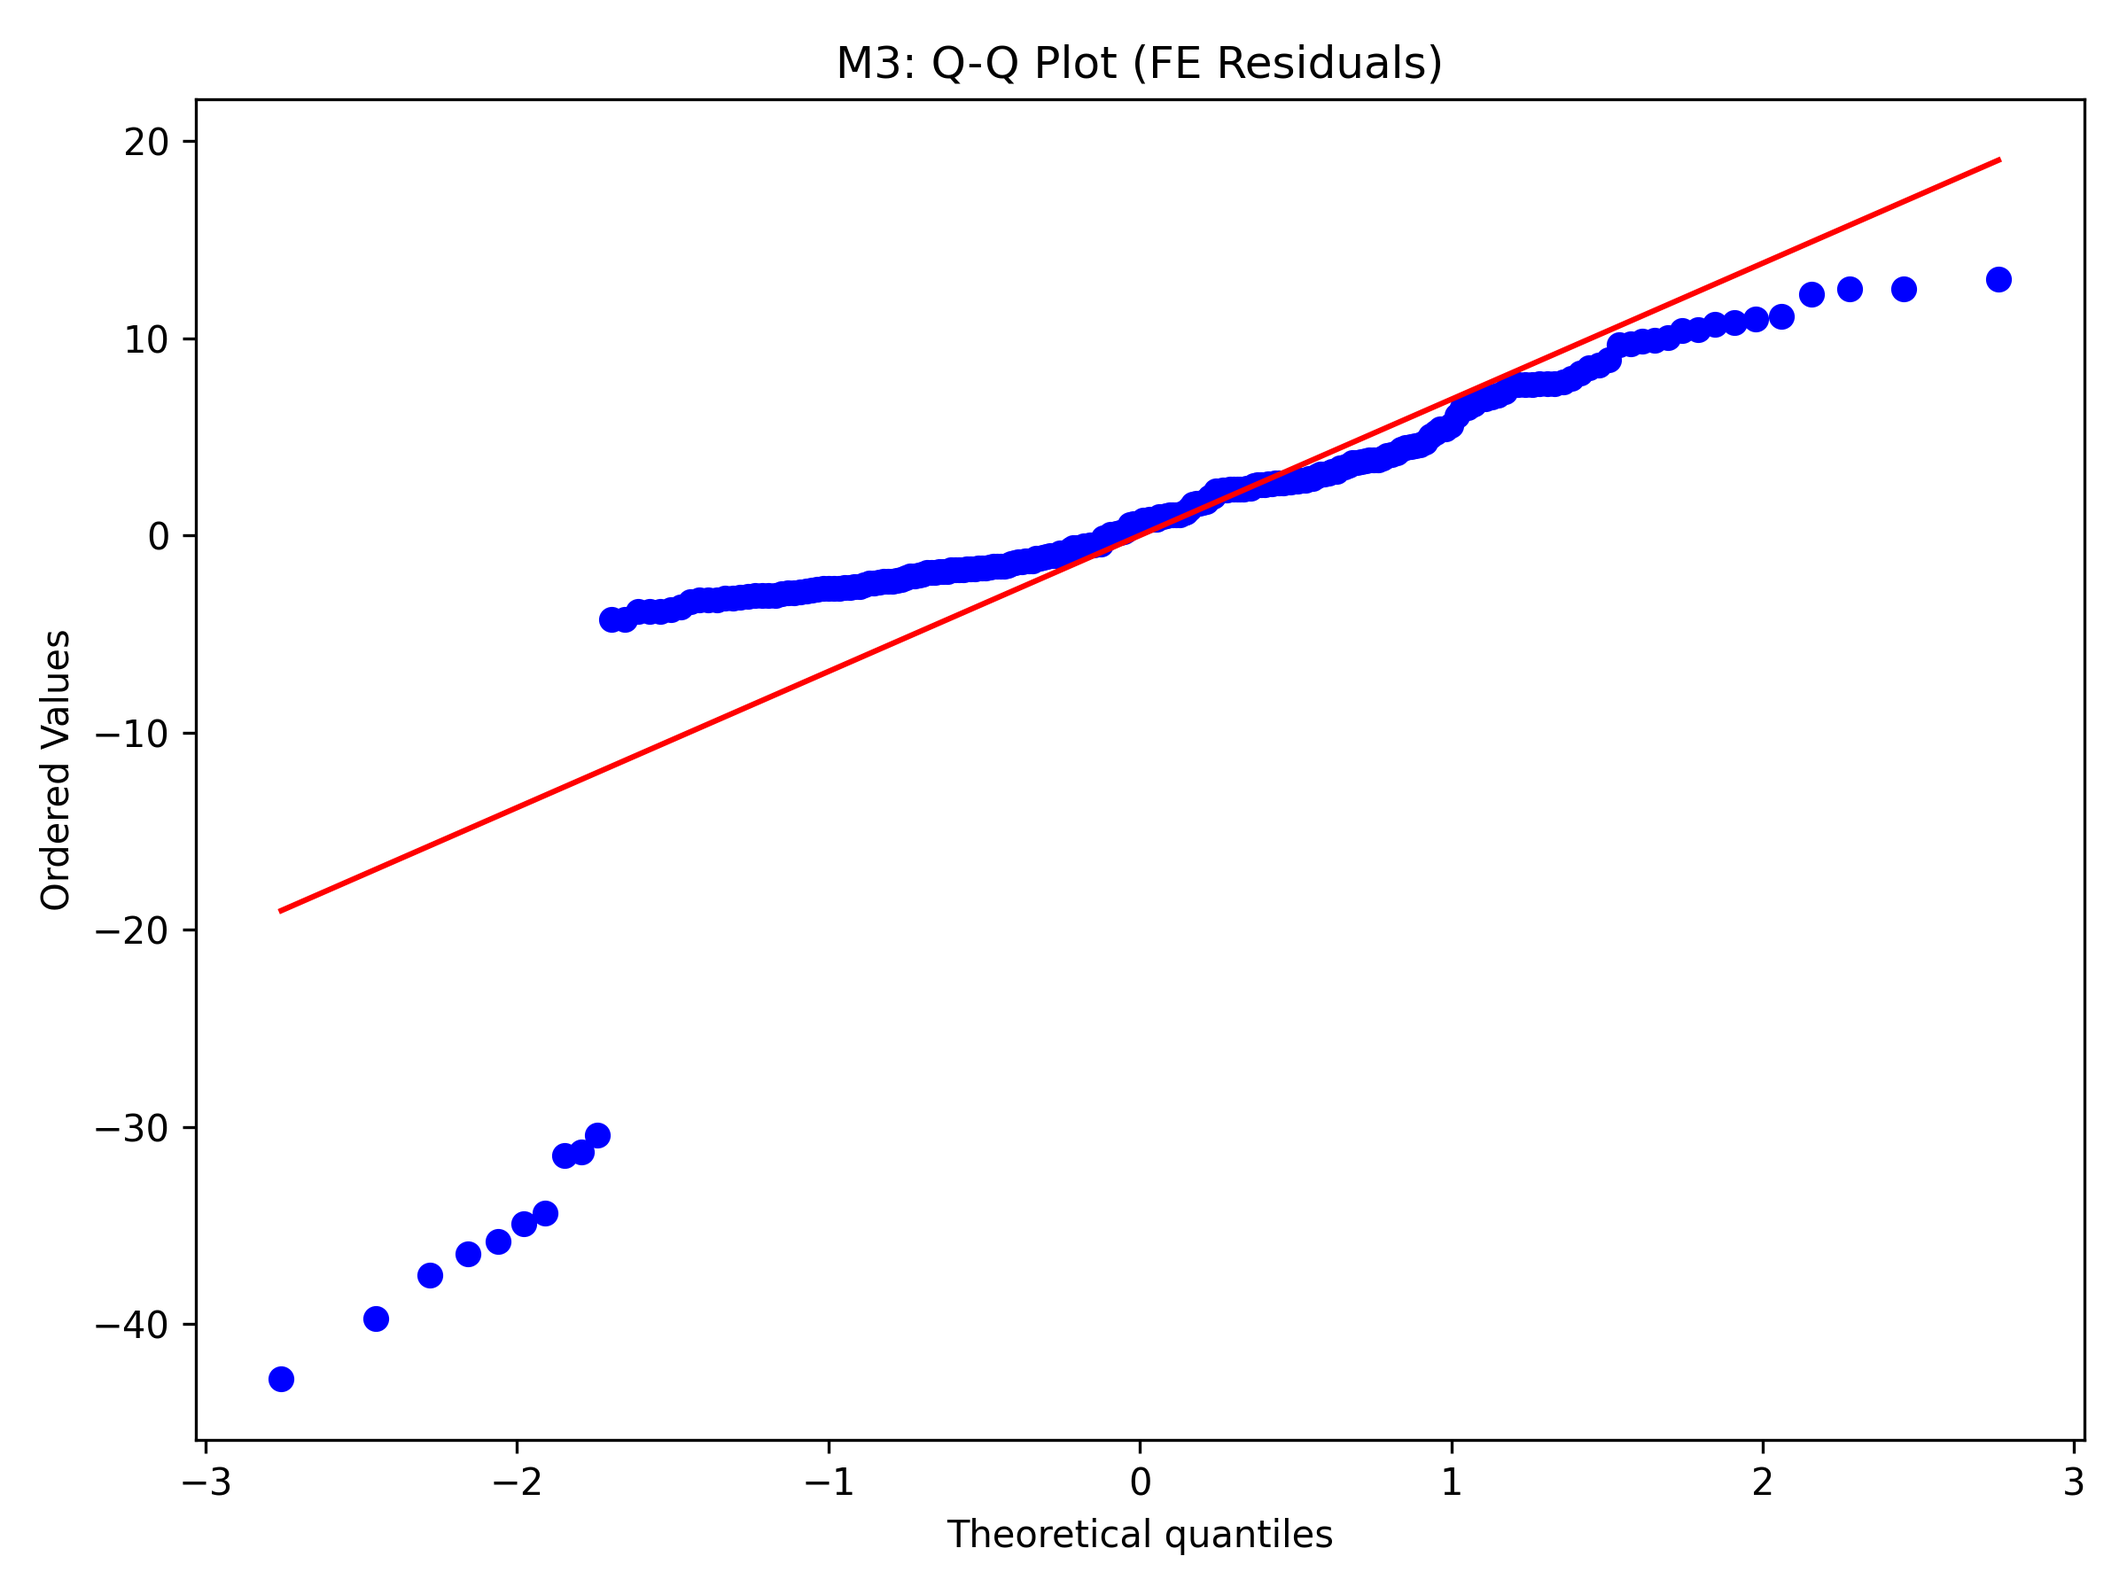
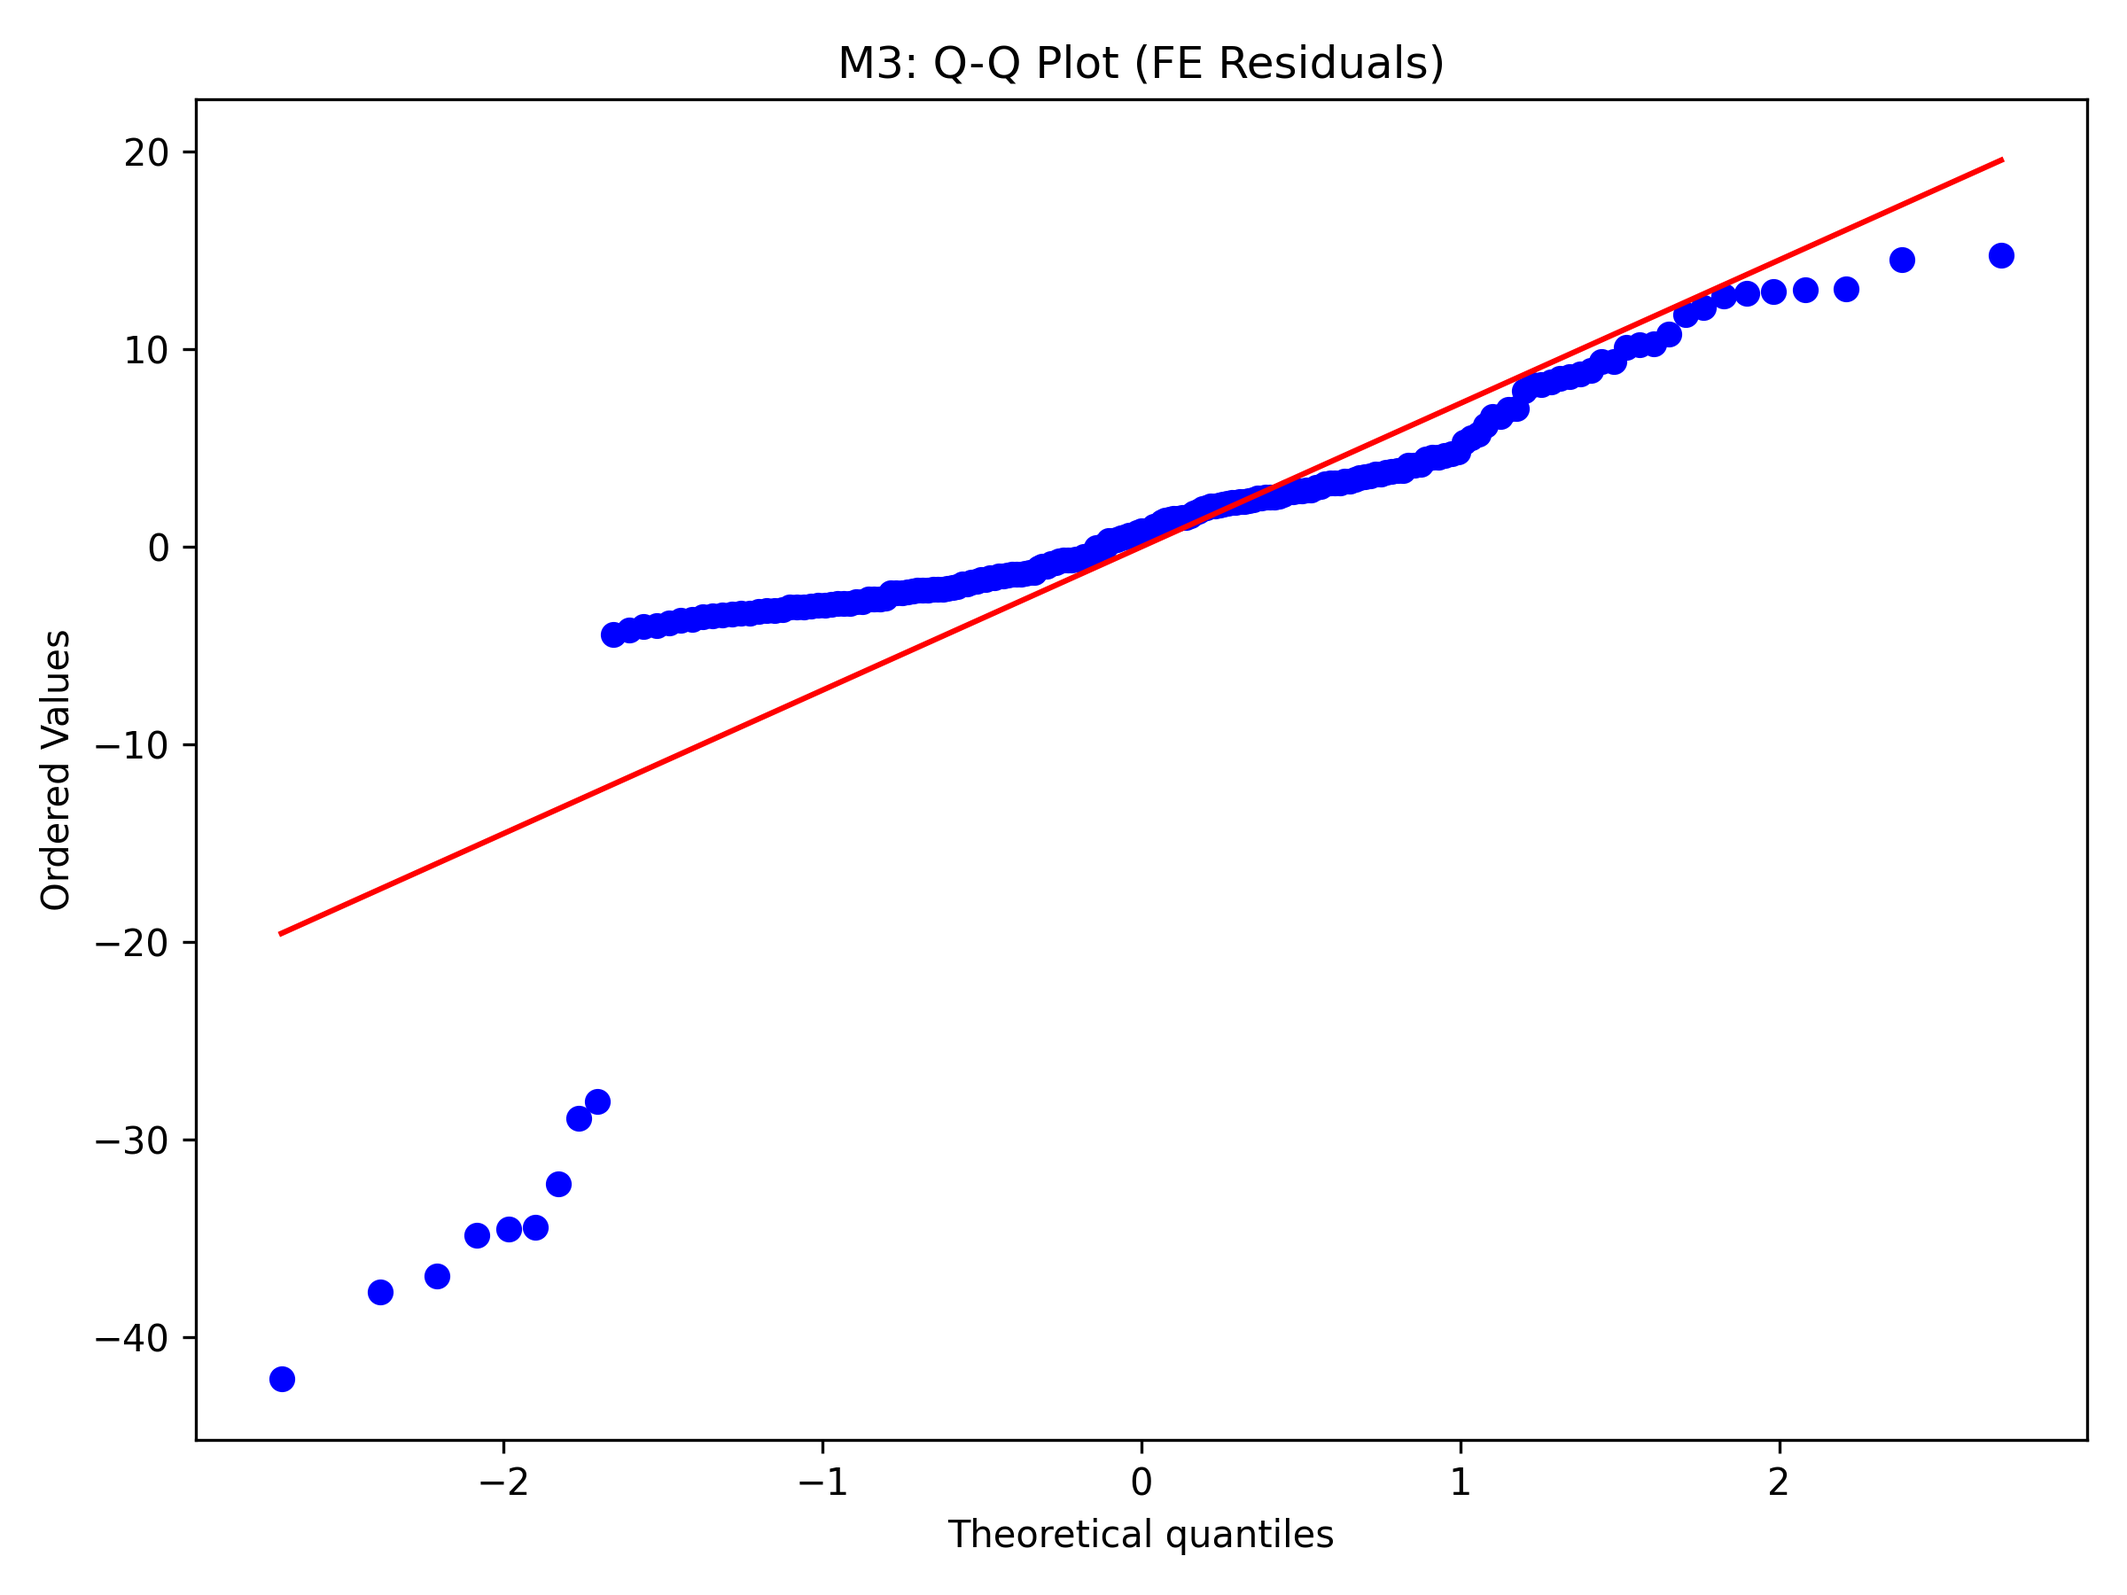
Cleaned up M3 Interpretation, including errors with calculation. Created an extra file to ensure updates were correct

diff --git a/code/capstone_models.py b/code/capstone_models.py
@@ -24,6 +24,7 @@ import matplotlib.pyplot as plt
 import numpy as np
 import pandas as pd
 from linearmodels.panel import PanelOLS
+from linearmodels.panel.utility import AbsorbingEffectWarning
 from scipy import stats
 from sklearn.ensemble import RandomForestRegressor
 from sklearn.metrics import mean_squared_error, r2_score
@@ -35,6 +36,7 @@ from fetch_crime_index_code.config_paths import FINAL_DATA_DIR, FIGURES_DIR, TAB
 
 warnings.filterwarnings("ignore", category=FutureWarning)
 warnings.filterwarnings("ignore", category=RuntimeWarning)
+warnings.filterwarnings("ignore", category=AbsorbingEffectWarning)
 
 
 # -----------------------------------------------------------------------------
@@ -115,6 +117,8 @@ df = raw.dropna(subset=["foreign_investment", "cpi_score", "crime_index", "gepu"
 # Signed log transform handles potentially negative FDI while reducing skew.
 df["fdi_slog"] = signed_log1p(df["foreign_investment"])
 
+PRIMARY_LAG_YEARS = 3
+
 for lag in [1, 2, 3]:
     df[f"cpi_score_lag{lag}"] = df.groupby("Country")["cpi_score"].shift(lag)
 
@@ -130,7 +134,8 @@ print(f"Countries: {df['Country'].nunique()}, Years: {df['Year'].min()}-{df['Yea
 # Section 3: Model A - Fixed Effects regression (required)
 # -----------------------------------------------------------------------------
 
-panel, y, X, fe_clustered, fe_unclustered = fit_fe_model(df, "cpi_score_lag1")
+primary_lag_col = f"cpi_score_lag{PRIMARY_LAG_YEARS}"
+panel, y, X, fe_clustered, fe_unclustered = fit_fe_model(df, primary_lag_col)
 
 print("\nModel A (FE, clustered SE) fitted.")
 print(fe_clustered.summary)
@@ -183,7 +188,7 @@ fit_stats.to_csv(TABLES_DIR / "M3_modelA_fit_statistics.csv", index=False)
 ml_df = df[[
     "Year",
     "fdi_slog",
-    "cpi_score_lag1",
+    primary_lag_col,
     "crime_index",
     "gepu",
 ]].dropna().copy()
@@ -194,7 +199,7 @@ cutoff = max_year - 1
 train = ml_df[ml_df["Year"] < cutoff].copy()
 test = ml_df[ml_df["Year"] >= cutoff].copy()
 
-feature_cols = ["cpi_score_lag1", "crime_index", "gepu"]
+feature_cols = [primary_lag_col, "crime_index", "gepu"]
 X_train = train[feature_cols]
 X_test = test[feature_cols]
 y_train = train["fdi_slog"]
@@ -332,24 +337,24 @@ pd.DataFrame(lag_rows).to_csv(TABLES_DIR / "M3_robustness_alt_lags.csv", index=F
 
 # Check 3: Exclude 2020 and re-estimate FE model.
 no_2020_df = df[df["Year"] != 2020].copy()
-_, _, _, fe_no_2020, _ = fit_fe_model(no_2020_df, "cpi_score_lag1")
+_, _, _, fe_no_2020, _ = fit_fe_model(no_2020_df, primary_lag_col)
 
 exclude_2020 = pd.DataFrame(
     [
         {
-            "spec": "baseline",
-            "coef_cpi_lag1": float(fe_clustered.params["cpi_score_lag1"]),
-            "se_cpi_lag1": float(fe_clustered.std_errors["cpi_score_lag1"]),
-            "pvalue_cpi_lag1": float(fe_clustered.pvalues["cpi_score_lag1"]),
-            "nobs": int(fe_clustered.nobs),
-        },
-        {
-            "spec": "exclude_2020",
-            "coef_cpi_lag1": float(fe_no_2020.params["cpi_score_lag1"]),
-            "se_cpi_lag1": float(fe_no_2020.std_errors["cpi_score_lag1"]),
-            "pvalue_cpi_lag1": float(fe_no_2020.pvalues["cpi_score_lag1"]),
-            "nobs": int(fe_no_2020.nobs),
-        },
+                "spec": "baseline",
+                f"coef_{primary_lag_col}": float(fe_clustered.params[primary_lag_col]),
+                f"se_{primary_lag_col}": float(fe_clustered.std_errors[primary_lag_col]),
+                f"pvalue_{primary_lag_col}": float(fe_clustered.pvalues[primary_lag_col]),
+                "nobs": int(fe_clustered.nobs),
+            },
+            {
+                "spec": "exclude_2020",
+                f"coef_{primary_lag_col}": float(fe_no_2020.params[primary_lag_col]),
+                f"se_{primary_lag_col}": float(fe_no_2020.std_errors[primary_lag_col]),
+                f"pvalue_{primary_lag_col}": float(fe_no_2020.pvalues[primary_lag_col]),
+                "nobs": int(fe_no_2020.nobs),
+            },
     ]
 )
 exclude_2020.to_csv(TABLES_DIR / "M3_robustness_exclude_2020.csv", index=False)
@@ -359,13 +364,13 @@ subsample_rows = []
 for group_value, group_name in [(0, "low_crime"), (1, "high_crime")]:
     group_df = df[df["high_crime_group"] == group_value].copy()
     try:
-        _, _, _, fe_group, _ = fit_fe_model(group_df, "cpi_score_lag1")
+        _, _, _, fe_group, _ = fit_fe_model(group_df, primary_lag_col)
         subsample_rows.append(
             {
                 "group": group_name,
-                "coef_cpi_lag1": float(fe_group.params["cpi_score_lag1"]),
-                "se_cpi_lag1": float(fe_group.std_errors["cpi_score_lag1"]),
-                "pvalue_cpi_lag1": float(fe_group.pvalues["cpi_score_lag1"]),
+                f"coef_{primary_lag_col}": float(fe_group.params[primary_lag_col]),
+                f"se_{primary_lag_col}": float(fe_group.std_errors[primary_lag_col]),
+                f"pvalue_{primary_lag_col}": float(fe_group.pvalues[primary_lag_col]),
                 "nobs": int(fe_group.nobs),
             }
         )
@@ -373,9 +378,9 @@ for group_value, group_name in [(0, "low_crime"), (1, "high_crime")]:
         subsample_rows.append(
             {
                 "group": group_name,
-                "coef_cpi_lag1": np.nan,
-                "se_cpi_lag1": np.nan,
-                "pvalue_cpi_lag1": np.nan,
+                f"coef_{primary_lag_col}": np.nan,
+                f"se_{primary_lag_col}": np.nan,
+                f"pvalue_{primary_lag_col}": np.nan,
                 "nobs": 0,
             }
         )

diff --git a/code/capstone_check.py b/code/capstone_check.py
@@ -1,0 +1,96 @@
+"""Quick check: Fit two-way FE excluding 2020 and save summaries.
+
+This script is a lightweight runner used to validate the FE estimate
+when observations from 2020 are removed. Outputs are written to the
+same `TABLES_DIR` used by the main pipeline.
+"""
+
+from pathlib import Path
+import warnings
+
+import numpy as np
+import pandas as pd
+import statsmodels.api as sm
+from linearmodels.panel import PanelOLS
+from fetch_crime_index_code.config_paths import FINAL_DATA_DIR, TABLES_DIR
+
+warnings.filterwarnings("ignore")
+
+
+def signed_log1p(series: pd.Series) -> pd.Series:
+	return np.sign(series) * np.log1p(np.abs(series))
+
+
+def save_text(path: Path, text: str) -> None:
+	path.parent.mkdir(parents=True, exist_ok=True)
+	path.write_text(text, encoding="utf-8")
+
+
+def fit_fe_on_df(df: pd.DataFrame, driver_col: str):
+	model_df = df[["Country", "Year", "fdi_slog", driver_col, "crime_index", "gepu"]].dropna().copy()
+	panel = model_df.set_index(["Country", "Year"]).sort_index()
+	y = panel["fdi_slog"]
+	X = panel[[driver_col, "crime_index", "gepu"]]
+
+	fe = PanelOLS(y, X, entity_effects=True, time_effects=True, drop_absorbed=True).fit(cov_type="clustered", cluster_entity=True)
+	return fe
+
+
+def main():
+	panel_path = FINAL_DATA_DIR / "analysis_panel.csv"
+	if not panel_path.exists():
+		raise FileNotFoundError(f"Missing final panel file: {panel_path}")
+
+	raw = pd.read_csv(panel_path)
+	raw["Year"] = raw["Year"].astype(int)
+
+	df = raw.dropna(subset=["foreign_investment", "cpi_score", "crime_index", "gepu"]).copy()
+	df["fdi_slog"] = signed_log1p(df["foreign_investment"])
+
+	# primary lag used in main script
+	primary_lag_col = "cpi_score_lag3"
+	for lag in [1, 2, 3, 4, 5]:
+		df[f"cpi_score_lag{lag}"] = df.groupby("Country")["cpi_score"].shift(lag)
+
+	# Exclude 2020
+	df_no_2020 = df[df["Year"] != 2020].copy()
+
+	# Existing lightweight FE run (already prints summary)
+	fe_no_2020 = fit_fe_on_df(df_no_2020, primary_lag_col)
+	print("\n--- capstone_check: FE (exclude 2020) ---\n")
+	print(str(fe_no_2020.summary))
+
+	# --- Add: run the exact exclude-2020 snippet as in `capstone_models.py` ---
+	def fit_fe_model(df_in: pd.DataFrame, driver_col_in: str):
+		model_df2 = df_in[["Country", "Year", "fdi_slog", driver_col_in, "crime_index", "gepu"]].dropna().copy()
+		panel2 = model_df2.set_index(["Country", "Year"]).sort_index()
+		y2 = panel2["fdi_slog"]
+		X2 = panel2[[driver_col_in, "crime_index", "gepu"]]
+
+		fe_clustered2 = PanelOLS(
+			y2,
+			X2,
+			entity_effects=True,
+			time_effects=True,
+			drop_absorbed=True,
+		).fit(cov_type="clustered", cluster_entity=True)
+
+		fe_unclustered2 = PanelOLS(
+			y2,
+			X2,
+			entity_effects=True,
+			time_effects=True,
+			drop_absorbed=True,
+		).fit(cov_type="unadjusted")
+
+		return panel2, y2, X2, fe_clustered2, fe_unclustered2
+
+	# Run the capstone_models-style check and print its clustered result
+	panel2, y2, X2, fe_clustered2, fe_unclustered2 = fit_fe_model(df_no_2020, primary_lag_col)
+	print("\n--- capstone_models-style FE (exclude 2020) ---\n")
+	print(str(fe_clustered2.summary))
+
+
+if __name__ == "__main__":
+	main()
+

diff --git a/M3_interpretation.md b/M3_interpretation.md
@@ -8,7 +8,7 @@ Outcome variable:
 - fdi_slog (signed log transform of foreign investment)
 
 Key driver:
-- cpi_score_lag1 (one-year lag of CPI score; higher score indicates lower perceived corruption)
+- cpi_score_lag3 (three-year lag of CPI score; higher score indicates lower perceived corruption)
 
 Model A controls:
 - crime_index
@@ -18,23 +18,23 @@ Model A controls:
 
 We estimated a two-way fixed effects model with country and year effects, using clustered standard errors.
 
-Key estimate for cpi_score_lag1:
-- Coefficient: -0.1135
-- Clustered SE: 0.1416
-- p-value: 0.4238
+Key estimate for cpi_score_lag3:
+- Coefficient: -0.2444
+- Clustered SE: 0.1705
+- p-value: 0.1536
 
 Interpretation:
-A 1-point increase in lagged CPI score is associated with a 0.1135 decrease in signed-log FDI, holding country and year fixed effects constant.
+A 1-point increase in the three-year lagged CPI score is associated with a 0.2444 decrease in signed-log FDI, holding country and year fixed effects constant.
 
 Statistical conclusion:
 The estimate is not statistically different from zero at conventional thresholds.
 
 Additional result:
-- gepu coefficient: -0.0159, clustered p-value = 0.1876
+- gepu coefficient: -0.0145, clustered p-value = 0.2194
 
 Model fit:
-- Within R2: 0.0149
-- Model F-test p-value: 0.1832
+- Within R2: 0.0185
+- Model F-test p-value: 0.2126
 
 Overall, within-country explanatory power is low, so most FDI variation is not captured by this baseline specification.
 
@@ -57,11 +57,11 @@ In this sample, these channels are not strongly identified after fixed effects a
 
 Out-of-sample test performance:
 
-- OLS: RMSE = 15.4246, R2 = -0.0530
-- Random Forest: RMSE = 14.6389, R2 = 0.0515
+- OLS: RMSE = 15.2730, R2 = -0.0324
+- Random Forest: RMSE = 15.3130, R2 = -0.0378
 
 Interpretation:
-Random Forest provides a modest predictive improvement over OLS, but the gain is small.
+Random Forest does not improve on OLS in this run; both models perform slightly worse than a mean benchmark on the test set.
 
 Trade-off:
 - OLS is easier to interpret economically.
@@ -71,16 +71,16 @@ Trade-off:
 
 ### Heteroskedasticity (Breusch-Pagan)
 
-- LM p-value: 0.0560
-- F p-value: 0.0557
+- LM p-value: 0.0412
+- F p-value: 0.0407
 
 Interpretation:
-At the 5% level, we do not reject homoskedasticity, but p-values are close to the cutoff. Using clustered SEs remains a conservative and appropriate choice.
+At the 5% level, we reject homoskedasticity, so clustered standard errors are justified and conservative.
 
 ### Multicollinearity (VIF)
 
-- cpi_score_lag1: 7.18
-- crime_index: 6.56
+- cpi_score_lag3: 7.22
+- crime_index: 6.47
 - gepu: 3.73
 
 Interpretation:
@@ -100,9 +100,9 @@ We implemented four robustness checks.
 
 ### 1. Clustered vs unclustered standard errors
 
-For cpi_score_lag1:
-- Clustered SE: 0.1416 (p = 0.4238)
-- Unclustered SE: 0.2278 (p = 0.6189)
+For cpi_score_lag3:
+- Clustered SE: 0.1705 (p = 0.1536)
+- Unclustered SE: 0.2734 (p = 0.3727)
 
 Conclusion:
 Inference stays non-significant under both covariance assumptions.
@@ -114,23 +114,23 @@ Inference stays non-significant under both covariance assumptions.
 - Lag 3: coef = -0.2444, p = 0.1536
 
 Conclusion:
-Sign direction is stable across lags, but estimates remain statistically weak.
+The short lags are negative, but the pattern is not monotonic. Overall, the lag structure is not robustly identified.
 
 ### 3. Excluding 2020
 
-- Baseline: coef = -0.1135, p = 0.4238
-- Excluding 2020: coef = -0.0010, p = 0.9950
+- Baseline: coef = -0.2444, p = 0.1536
+- Excluding 2020: coef = -0.2229, p = 0.3151
 
 Conclusion:
-Results are sensitive to inclusion of the pandemic period, indicating potential crisis-year influence.
+Dropping 2020 slightly attenuates the estimate and raises the standard error, but the sign remains negative. The effect is not driven entirely by the pandemic year in this current specification.
 
 ### 4. Subsample estimation by crime level
 
-- Low-crime countries: coef = -0.0296, p = 0.9063
-- High-crime countries: coef = -0.1367, p = 0.4365
+- Low-crime countries: coef = -0.2237, p = 0.5155
+- High-crime countries: coef = -0.1991, p = 0.2524
 
 Conclusion:
-No subgroup estimate is statistically significant, though point estimates are more negative in high-crime countries.
+No subgroup estimate is statistically significant, and the two point estimates are similar in magnitude.
 
 ## Caveats and Identification Limits
 
@@ -148,7 +148,7 @@ The analysis uses countries with complete data overlap; findings may not general
 
 ## Final Bottom Line
 
-Model A meets the milestone requirements and is correctly specified for panel FE analysis, but lagged CPI and GEPU effects are not statistically strong in this dataset.
-Model B shows only a modest predictive improvement from Random Forest over OLS.
+Model A meets the milestone requirements and is correctly specified for panel FE analysis, but the lagged CPI and GEPU effects are not statistically strong in this dataset.
+Model B does not show a predictive improvement from Random Forest over OLS in the current run.
 
 Our substantive conclusions should therefore be reported as cautious, with emphasis on methodological completeness, transparency, and clear limitations.
